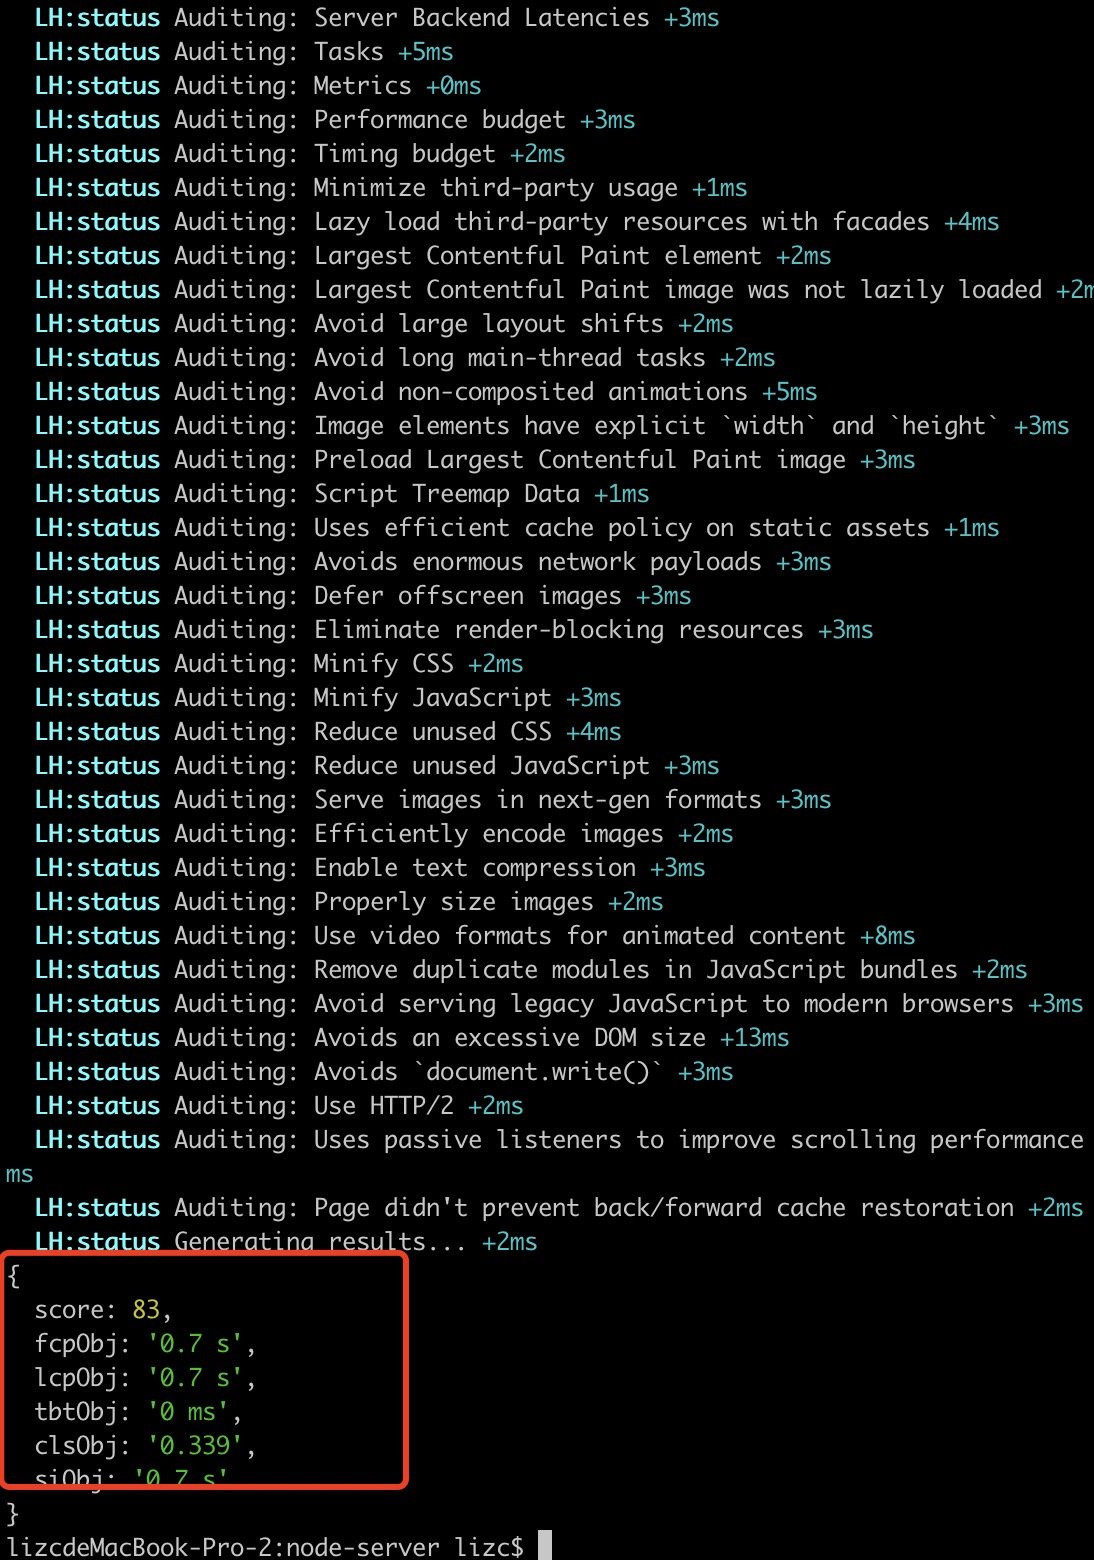
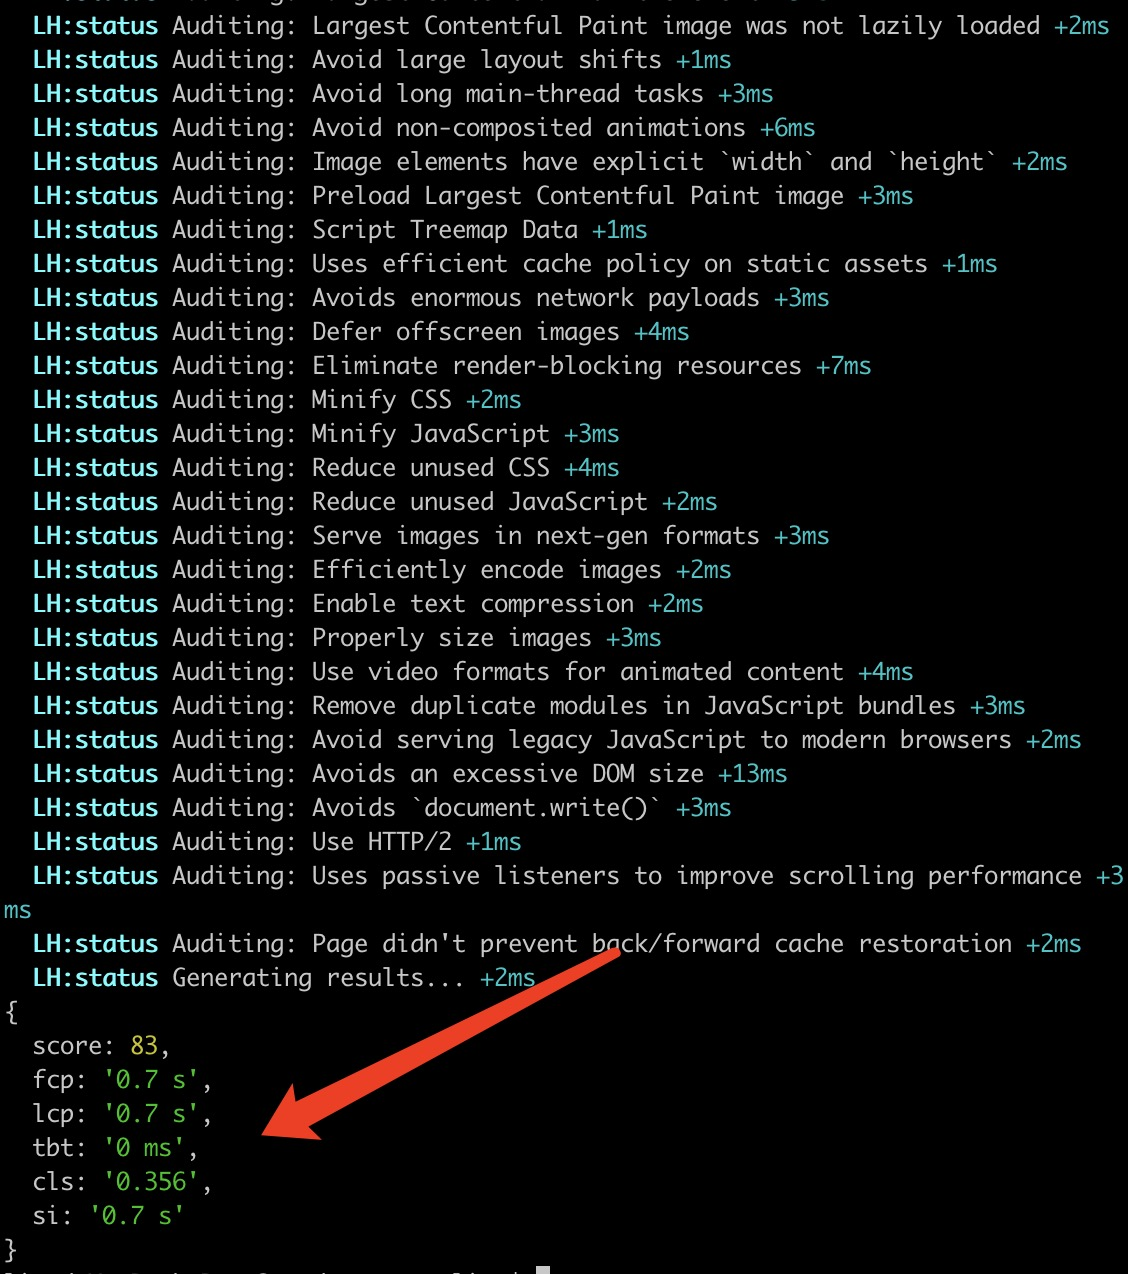
feat: stash

diff --git a/docs/前端知识体系(全面)/web优化/lighthouse各指标计算.md b/docs/前端知识体系(全面)/web优化/lighthouse各指标计算.md
@@ -234,12 +234,10 @@ Lighthouse分数计算规则页面
 ![image](../../../imgs/p_10.jpg)
 
 ## 跑分系统
-使用谷歌Lighthouse实现自动化跑分，demo
+使用谷歌Lighthouse实现自动化跑分，代码如下：
 ```js
 import lighthouse from 'lighthouse';
 import * as chromeLauncher from 'chrome-launcher';
-
-
 async function runLighthouse(url) {
   const chrome = await chromeLauncher.launch({ chromeFlags: ['--headless'] });
   const options = { logLevel: 'info', output: 'html', onlyCategories: ['performance'], port: chrome.port };
@@ -261,14 +259,18 @@ runLighthouse(url, {})
     const cls = runnerResult.lhr.audits['cumulative-layout-shift'].displayValue;
     const si = runnerResult.lhr.audits['speed-index'].displayValue;
 
-    console.log({ score, fcpObj, lcpObj, tbtObj, clsObj, siObj });
+    console.log({ score, fcp, lcp, tbt, cls, si });
   })
   .catch(error => {
     console.error(error);
   });
+
 ```
 
 ![image](../../../imgs/p_11.jpg)
+
+
+
 
 要在Lighthouse跑分脚本中实现登录鉴权，可以使用Lighthouse提供的自定义加载器（custom gatherer）和自定义脚本（custom audit）功能。以下是一种可能的实现方法：
 
